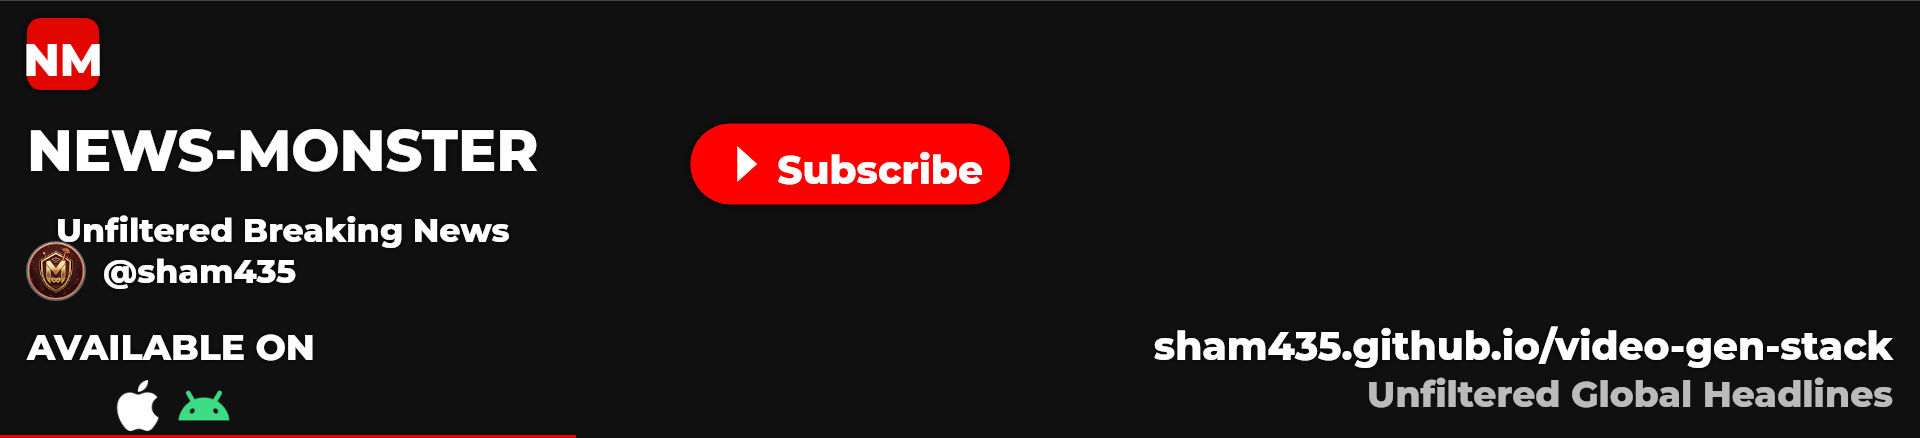
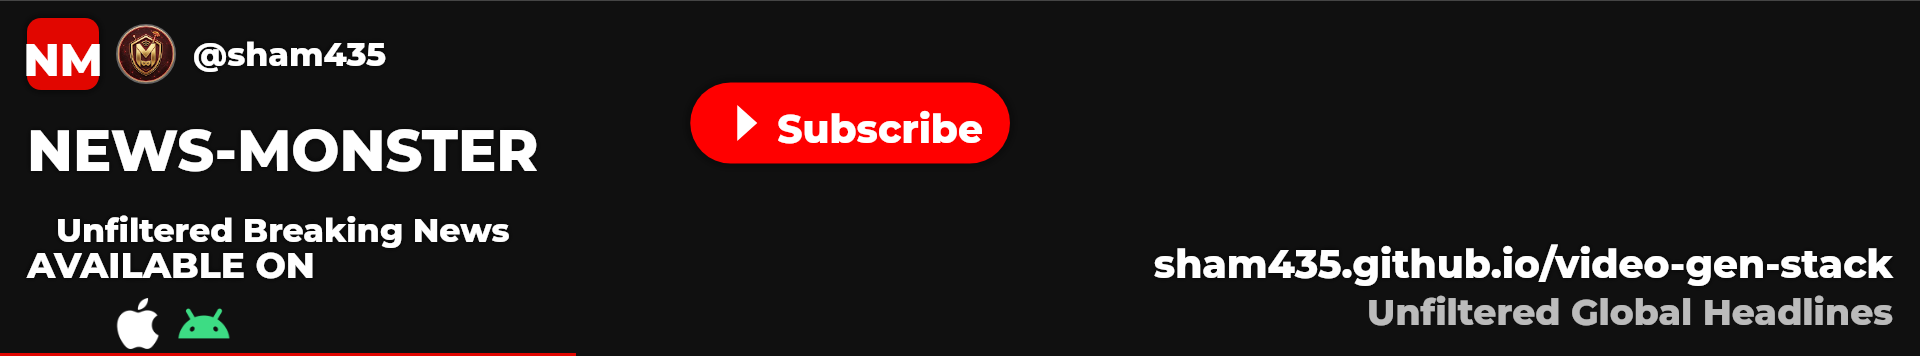
feat: skills registry for repo-aware agent + footer layout engine + GC runs workflow
- Add .opencode/skills/ registry (known-fixes, audit, publish-verify, render-verify) wired
  through OpenCodeBridge (loadSkill/getSkills/loadAllSkills), dashboard routes
  (/api/opencode/skills), /api/ai/chat system prompt, and validators (bridge/registry/depgraph)
- Footer: move avatar + @sham435 beside NM monogram in shared FooterLayout engine,
  update layout tests, regenerate footer assets
- Add .github/workflows/gc-runs.yml daily cleanup of old GitHub Actions runs

diff --git a/scripts/validators/bridge.js b/scripts/validators/bridge.js
@@ -18,13 +18,13 @@ export default function (ctx) {
     r.add('bridge', 'bridge smoke (bridge unavailable)', 'ERROR', false)
     return
   }
-  const reqKeys = ['agents', 'memory', 'workflows', 'policies', 'approvalRequired', 'dataSources']
+  const reqKeys = ['agents', 'memory', 'workflows', 'policies', 'skills', 'approvalRequired', 'dataSources']
   const t0 = performance.now()
   const ctxObj = b.getSystemContext()
   const t1 = performance.now()
   r.perf.record('schemaValidation', t1 - t0)
   const miss = reqKeys.filter(k => !(k in ctxObj))
-  if (miss.length === 0) r.add('bridge', 'getSystemContext() 6 historical keys', 'INFO', true,
+  if (miss.length === 0) r.add('bridge', 'getSystemContext() 7 historical keys', 'INFO', true,
     Object.fromEntries(reqKeys.map(k => [k, Array.isArray(ctxObj[k]) ? ctxObj[k].length : typeof ctxObj[k]])))
   else r.add('bridge', `getSystemContext() missing keys: ${miss.join(',')}`, 'CRITICAL', false)
 

diff --git a/scripts/validators/depgraph.js b/scripts/validators/depgraph.js
@@ -26,7 +26,7 @@ export default function (ctx) {
 
   function resolvePath(kind, entry) {
     if (kind === 'agent') return entry.path
-    return entry // string for memory/workflow/policy
+    return entry // string for memory/workflow/policy/skill
   }
 
   function runLoader(kind, name) {
@@ -35,6 +35,7 @@ export default function (ctx) {
       if (kind === 'memory') { b.loadMemory(name); return true }
       if (kind === 'workflow') { b.loadWorkflow(name); return true }
       if (kind === 'policy') { return typeof b.getPolicies()[name] === 'string' }
+      if (kind === 'skill') { b.loadSkill(name); return true }
       return false
     } catch { return false }
   }

diff --git a/scripts/validators/registry.js b/scripts/validators/registry.js
@@ -22,7 +22,7 @@ export default function (ctx) {
   const t1 = performance.now()
   r.perf.record('registrySweep', t1 - t0)
 
-  for (const k of ['agents', 'memory', 'workflows', 'policies']) {
+  for (const k of ['agents', 'memory', 'workflows', 'policies', 'skills']) {
     const list = integ.registrySweep[k]
     const fails = list.filter(x => !x.ok)
     const label = `${k} sweep (${list.length})`

diff --git a/.opencode/skills/audit.md b/.opencode/skills/audit.md
@@ -1,0 +1,33 @@
+# Skill: Repository Health Audit
+
+Run this when asked to audit the repo, check readiness, or assess health. Work in order.
+
+## 1. Baseline
+1. `repo_stats` — file count, LOC, top dirs/extensions.
+2. `git_status` — uncommitted changes, current branch.
+3. `git_diff` — what changed (optionally per path).
+4. `list_directory` on key dirs: `src/`, `packages/`, `scripts/`, `.opencode/`.
+
+## 2. Checks
+- Uncommitted work: flag P1, list exact files.
+- Outdated packages: read `package.json`, compare against current versions (report, don't auto-update).
+- Dead/unreferenced files: use `grep` to confirm a file is referenced before calling it dead.
+- TODO/FIXME: `rg -n "TODO|FIXME"` — distinguish real TODOs from framework strings.
+- Running processes: `bash` with `ps` — never assume; verify PID, port, and ownership.
+
+## 3. Output format
+```
+Current Status: <OK | WARNING | CRITICAL>
+Working Correctly: <Full | Partial | None>
+Problems Found: <severity, file, root cause, impact>
+Improvement Plan: <ordered>
+Priority: <P0/P1/P2>
+Production Readiness: <scores>
+Recommended Next Engineering Tasks: <list>
+```
+
+## Rules
+1. Never call a file dead without grep evidence it's unreferenced.
+2. Never invent file paths — verify with `read_file`/`grep` before reporting them.
+3. Never read `.env` or files under `data/`.
+4. Report exact severities: P0 = blocking/security, P1 = high impact, P2 = cleanup.

diff --git a/.opencode/skills/publish-verify.md b/.opencode/skills/publish-verify.md
@@ -1,0 +1,22 @@
+# Skill: Publish / Run Verification
+
+Use this when asked whether a pipeline run published, whether a workflow succeeded, or to verify a
+YouTube/LinkedIn post. Do NOT trust run numbers or workflow labels — verify with evidence.
+
+## Steps
+1. If a GitHub Actions run number is given, find its real ID:
+   - `gh run list` or `bash` with `gh api repos/<owner>/<repo>/actions/runs`.
+   - Note: run numbers are per-workflow counters and never reset, even if runs are deleted.
+2. Check run logs for publish evidence:
+   - YouTube: uploaded short video id (e.g. `oQaDNo3_Rh4`), byte size, timestamp.
+   - LinkedIn: post/share URNs (`urn:li:ugcPost:...`, `urn:li:share:...`).
+   - `videos.json` refresh commit.
+3. Search logs for the exact phrase before claiming a result — e.g. confirm whether "no new video"
+   is actually present. A claim of "nothing published" must be backed by grep evidence.
+4. If the API is involved, verify with the right headers/keys rather than assuming auth failure.
+   A 401 with a wrong/missing key and a 503 from unset key are different failures.
+
+## Rules
+1. Never claim a run failed or published without log/grep evidence.
+2. Never read `.env` or files under `data/`.
+3. If evidence is missing, say so explicitly and request access, don't speculate.

diff --git a/.opencode/skills/render-verify.md b/.opencode/skills/render-verify.md
@@ -1,0 +1,22 @@
+# Skill: Footer / Visual Render Verification
+
+Use this when asked about footer bar rendering, layout consistency, or visual asset verification.
+
+## Key facts
+- Shared layout engine: `src/video/footer/FooterLayout.mjs` (+ `blocks.mjs`).
+- Text tokens shared via `src/video/footer/text-tokens.mjs` (or `text-tokens.mjs`).
+- In-canvas footer drawn by `BrandingLayer.drawFooter` in the renderer.
+- Standalone assets generated by `scripts/footer.mjs` (supports `--width` for responsive override,
+  e.g. `node scripts/footer.mjs --width 1920`).
+- Geometry is proportional to scale (9:16 default). Verify positions/height after any change.
+- Tests live in `tests/footer-layout.test.mjs` (pixel-probe based).
+
+## Steps
+1. After a layout change, run the test suite (`node --test tests/footer-layout.test.mjs` or the repo
+   test command) and confirm all pass.
+2. Regenerate assets at required widths: `node scripts/footer.mjs --width 1080 --width 1920`.
+3. Verify render output with `scripts/verify-footer-render.mjs` if present.
+
+## Rules
+1. Never claim visual correctness without running the tests.
+2. Never read `.env` or files under `data/`.

diff --git a/.opencode/skills/known-fixes.md b/.opencode/skills/known-fixes.md
@@ -1,0 +1,19 @@
+# Skill: Known Production Fixes
+
+When asked about a known production issue or how to fix a reported bug, match the issue against this
+list FIRST and apply the proven solution. These were learned from real production runs.
+
+| Issue | Proven Fix | Success |
+|---|---|---|
+| visualPlan undefined crash | Guard `VisualReasoner.select` with a fallback object | 98% |
+| YouTube upload timeout | Retry + exponential backoff on upload | 94% |
+| duplicate emphasis text | Drop caption word that matches `caption_focus` | 97% |
+| missing cover image | Pexels → article image → FAL → gradient fallback chain | 96% |
+| CI render slow | `QUICK_RENDER` skips per-pixel enhancement passes | 92% |
+| wrong hashtag brand | `HashtagBuilder` enforces topic-category-profile-channel | 100% |
+
+## Rules
+1. Verify the issue actually exists in the code before recommending a fix (file path + line number).
+2. Never read `.env` or files under `data/`.
+3. If the fix requires a mutation, call it out as requiring approval.
+4. If a reported issue is NOT in this list, treat it as a new bug — investigate root cause, do not guess.
